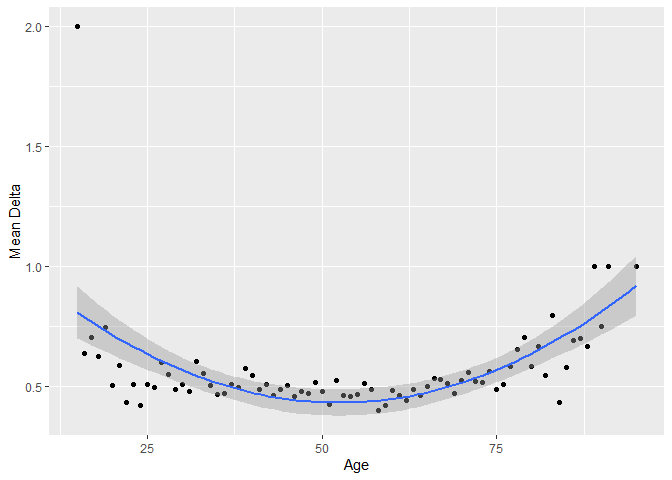
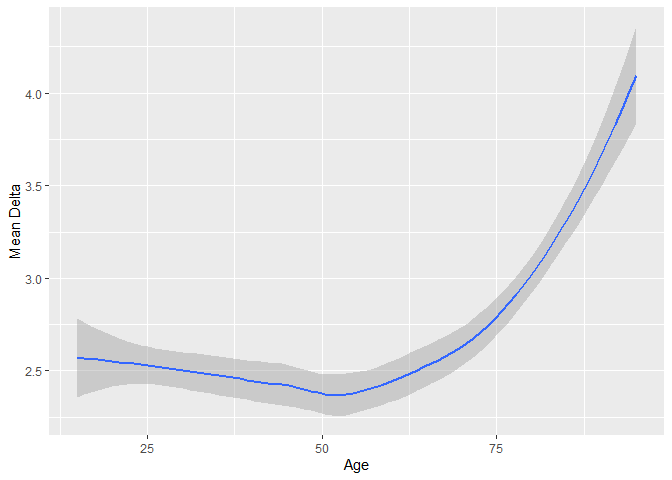
Re-committed files

diff --git a/assignment3.md b/assignment3.md
@@ -139,12 +139,12 @@ Long <- Long %>%
 
 Long <- Long %>%
   mutate(delta = 
-           abs((vote6_b - vote6_a) +
-           (vote6_c - vote6_b) +
-           (vote6_d - vote6_c) +
-           (vote6_e - vote6_d) +
-           (vote6_f - vote6_e) +
-           (vote6_g - vote6_f)))
+           abs(vote6_b - vote6_a) +
+           abs(vote6_c - vote6_b) +
+           abs(vote6_d - vote6_c) +
+           abs(vote6_e - vote6_d) +
+           abs(vote6_f - vote6_e) +
+           abs(vote6_g - vote6_f))
 
 sex.mean <- Long %>%
   group_by(sex_dv) %>%
@@ -158,8 +158,8 @@ knitr::kable(
 
 | Sex    | Mean Delta |
 | :----- | ---------: |
-| female |  0.5072194 |
-| male   |  0.5008023 |
+| female |   2.494877 |
+| male   |   2.527760 |
 
 ``` r
 age.mean <- Long %>%
@@ -174,91 +174,90 @@ knitr::kable(
 
 | Age | Mean Delta |
 | --: | ---------: |
-|  15 |  2.0000000 |
-|  16 |  0.6357143 |
-|  17 |  0.7045455 |
-|  18 |  0.6231884 |
-|  19 |  0.7471264 |
-|  20 |  0.5056180 |
-|  21 |  0.5882353 |
-|  22 |  0.4313725 |
-|  23 |  0.5084746 |
-|  24 |  0.4214286 |
-|  25 |  0.5063291 |
-|  26 |  0.4969697 |
-|  27 |  0.5988701 |
-|  28 |  0.5510204 |
-|  29 |  0.4877049 |
-|  30 |  0.5096154 |
-|  31 |  0.4807692 |
-|  32 |  0.6036036 |
-|  33 |  0.5518868 |
-|  34 |  0.5024631 |
-|  35 |  0.4651163 |
-|  36 |  0.4696970 |
-|  37 |  0.5060729 |
-|  38 |  0.4964029 |
-|  39 |  0.5765472 |
-|  40 |  0.5462687 |
-|  41 |  0.4888179 |
-|  42 |  0.5077399 |
-|  43 |  0.4601449 |
-|  44 |  0.4882943 |
-|  45 |  0.5034247 |
-|  46 |  0.4560261 |
-|  47 |  0.4798762 |
-|  48 |  0.4713376 |
-|  49 |  0.5145631 |
-|  50 |  0.4798535 |
-|  51 |  0.4244373 |
-|  52 |  0.5234899 |
-|  53 |  0.4612676 |
-|  54 |  0.4560811 |
-|  55 |  0.4671533 |
-|  56 |  0.5136054 |
-|  57 |  0.4891304 |
-|  58 |  0.3980892 |
-|  59 |  0.4191176 |
-|  60 |  0.4833948 |
-|  61 |  0.4613181 |
-|  62 |  0.4403409 |
-|  63 |  0.4875346 |
-|  64 |  0.4630225 |
-|  65 |  0.4981132 |
-|  66 |  0.5312500 |
-|  67 |  0.5283843 |
-|  68 |  0.5123153 |
-|  69 |  0.4717949 |
-|  70 |  0.5263158 |
-|  71 |  0.5572917 |
-|  72 |  0.5224719 |
-|  73 |  0.5155280 |
-|  74 |  0.5611511 |
-|  75 |  0.4878049 |
-|  76 |  0.5094340 |
-|  77 |  0.5833333 |
-|  78 |  0.6530612 |
-|  79 |  0.7058824 |
-|  80 |  0.5822785 |
-|  81 |  0.6666667 |
-|  82 |  0.5471698 |
-|  83 |  0.7948718 |
-|  84 |  0.4333333 |
-|  85 |  0.5789474 |
-|  86 |  0.6923077 |
-|  87 |  0.7000000 |
-|  88 |  0.6666667 |
-|  89 |  1.0000000 |
-|  90 |  0.7500000 |
-|  91 |  1.0000000 |
-|  95 |  1.0000000 |
+|  15 |   2.000000 |
+|  16 |   2.778571 |
+|  17 |   2.545454 |
+|  18 |   2.826087 |
+|  19 |   2.816092 |
+|  20 |   2.393258 |
+|  21 |   3.082353 |
+|  22 |   2.588235 |
+|  23 |   2.423729 |
+|  24 |   2.150000 |
+|  25 |   2.556962 |
+|  26 |   2.218182 |
+|  27 |   2.576271 |
+|  28 |   2.295918 |
+|  29 |   2.643443 |
+|  30 |   2.605769 |
+|  31 |   2.682692 |
+|  32 |   2.558559 |
+|  33 |   2.466981 |
+|  34 |   2.334975 |
+|  35 |   2.689923 |
+|  36 |   2.431818 |
+|  37 |   2.522267 |
+|  38 |   2.575540 |
+|  39 |   2.557003 |
+|  40 |   2.391045 |
+|  41 |   2.444090 |
+|  42 |   2.396285 |
+|  43 |   2.278986 |
+|  44 |   2.387960 |
+|  45 |   2.434931 |
+|  46 |   2.547231 |
+|  47 |   2.479876 |
+|  48 |   2.191083 |
+|  49 |   2.320388 |
+|  50 |   2.347985 |
+|  51 |   2.372990 |
+|  52 |   2.590604 |
+|  53 |   2.355634 |
+|  54 |   2.381757 |
+|  55 |   2.496350 |
+|  56 |   2.452381 |
+|  57 |   2.438406 |
+|  58 |   2.168790 |
+|  59 |   2.382353 |
+|  60 |   2.387454 |
+|  61 |   2.318052 |
+|  62 |   2.451704 |
+|  63 |   2.470914 |
+|  64 |   2.520900 |
+|  65 |   2.460377 |
+|  66 |   2.538194 |
+|  67 |   2.414847 |
+|  68 |   2.709360 |
+|  69 |   2.502564 |
+|  70 |   2.688995 |
+|  71 |   2.942708 |
+|  72 |   2.780899 |
+|  73 |   2.987578 |
+|  74 |   2.820144 |
+|  75 |   2.747968 |
+|  76 |   2.811321 |
+|  77 |   2.953704 |
+|  78 |   2.918367 |
+|  79 |   3.247059 |
+|  80 |   2.962025 |
+|  81 |   3.130435 |
+|  82 |   3.113208 |
+|  83 |   2.846154 |
+|  84 |   2.966667 |
+|  85 |   2.684210 |
+|  86 |   2.923077 |
+|  87 |   3.100000 |
+|  88 |   3.500000 |
+|  89 |   4.333333 |
+|  90 |   3.750000 |
+|  91 |   3.000000 |
+|  95 |   5.000000 |
 
 ``` r
 library(ggplot2)
 age.mean %>%
-  ggplot(aes(x=age_dv_a, y=delta.mean)) +
-  geom_point() +
-  stat_smooth(method = 'lm', formula = y~poly(x,2)) +
+  ggplot(aes(x=age_dv_a, y=delta.mean, group=1)) +
+  stat_smooth(method = 'loess', formula = y~x) +
   xlab("Age") +
   ylab("Mean Delta")
 ```
@@ -266,20 +265,15 @@ age.mean %>%
 ![](assignment3_files/figure-gfm/unnamed-chunk-6-1.png)<!-- -->
 
 When looking at the mean change in political interest broken down by
-gender, it seems that women tend slightly more to vary in degree of
-interest than do men. This difference isn’t incredibly significant, but
-could potentially be explained by such factors as growing female
-representation in politics and/or the increasing presence of news on
-social media (the latter not necessarily being specific to women).
+gender, it seems that men tend slightly more to vary in degree of
+interest than do women. This difference isn’t incredibly significant,
+but could potentially be explained by such factors as female
+representation in politics influencing how much/little women participate
+and/or the increasing presence of news on social media causing people to
+engage more/less.
 
-As far as age is concerned, it seems that the youngest and the oldest
-individuals experience more variability in political engagement, with
-teenagers aged 15 having the highest tendency to switch every so often.
-Adolescence is a time of uncertainty and self-discovery, so it is
-unsurprising that young people would have varying degrees of political
-interest. This could also be in conjunction with the exposure social
-media provides to world news and political debate. The elderly exhibit
-similar proclivities, with those older than 85 also tending to alternate
-between greater and lesser engagement. This could quite simply be due to
-apathy brought on by old age, as the older one gets, the less they may
-feel they are affected by politics.
+As far as age is concerned, there doesn’t appear to be much variation in
+political interest. However, it does appear that those older than 85 do
+tend to alternate between greater and lesser engagement. This could
+quite simply be due to apathy brought on by old age, as the older one
+gets, the less they may feel they are affected by politics.
